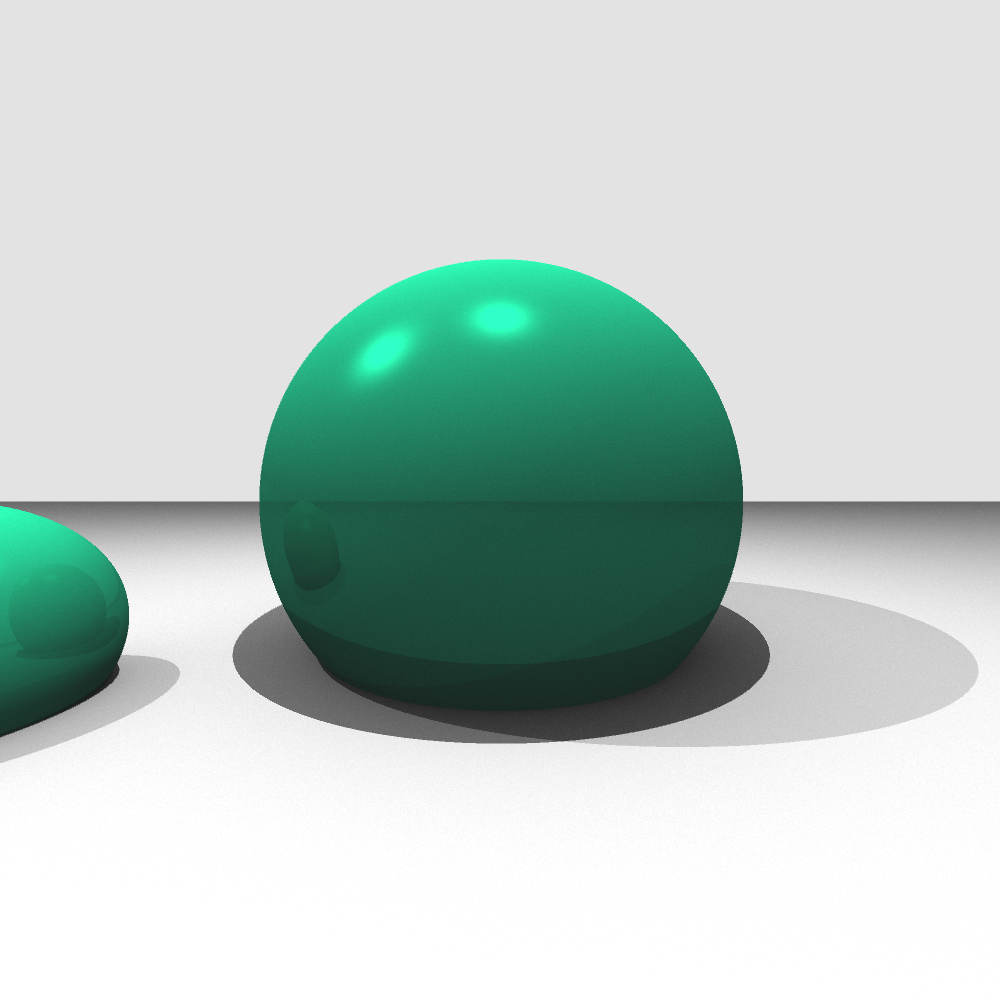
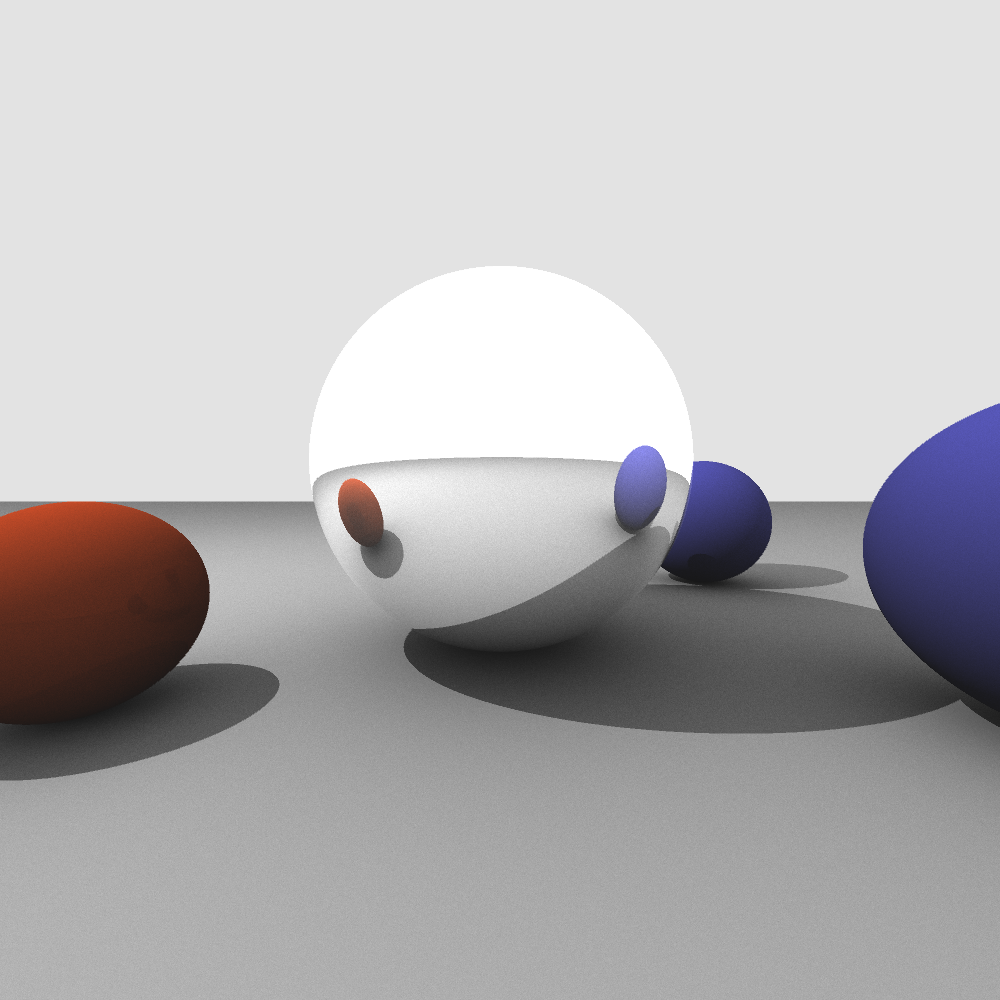
Added much nicer scene

diff --git a/main.c b/main.c
@@ -20,22 +20,29 @@ int main()
 	// Currently havin issues with white background
 	// color_set(&s.back, 255, 255, 255);
 	color_set(&s.back, 0.8, 0.8, 0.8);
-	color_set(&s.env_color, 0.1, 0.1, 0.1);
+	color_set(&s.env_color, 0.13, 0.13, 0.13);
 	s.env_samples = 256;
 
 	material_t m;
-	vector_set(&m.color, 1, 1, 1);
-	m.defuse = 0.0;
+	vector_set(&m.color, 0.4, 0.4, 1);
+	m.defuse = 1;
 	m.specular = 0.0;
 	m.shine = 80;
-	m.reflective = 0.5;
+	m.reflective = 0.0;
+
+	material_t m3;
+	vector_set(&m3.color, 1, 0.3, 0.1);
+	m3.defuse = 0.95;
+	m3.specular = 0.0;
+	m3.shine = 80;
+	m3.reflective = 0.05;
 
 	material_t m2;
-	vector_set(&m2.color, 0.1, 1, 0.7);
-	m2.defuse = 0.9;
-	m2.specular = 1;
-	m2.shine = 60;
-	m2.reflective = 0.1;
+	vector_set(&m2.color, 1, 1, 1);
+	m2.defuse = 0.0;
+	m2.specular = 0.5;
+	m2.shine = 80;
+	m2.reflective = 1;
 
 	material_t mpl;
 	//vector_set(&mpl.color, 0, 0.396, 0.7019);
@@ -45,20 +52,22 @@ int main()
 	mpl.shine = 50;
 	mpl.reflective = 0.0;
 
-	vector_set(&s.view.position, 0, 14, 5);
-	vector_set(&s.view.target, 0, 0, 5);
+	vector_set(&s.view.position, 0, 16, 6);
+	vector_set(&s.view.target, 0, 0, 6);
 	s.view.width = TESTW;
 	s.view.height = TESTH;
 
 	viewpoint_init(&s.view);
 	
 	// Setup plane
-	add_sphere(&s, vector_set(NULL, 0, 4, 5), 5, &m2);
-	add_sphere(&s, vector_set(NULL, 8, 8, 3), 2, &m2);
+	add_sphere(&s, vector_set(NULL, 0, 4, 7), 5, &m2);
+	add_sphere(&s, vector_set(NULL, 8, 8, 4), 2, &m3);
+	add_sphere(&s, vector_set(NULL, -10, 9, 5), 3, &m);
+	add_sphere(&s, vector_set(NULL, -10, -5, 5), 3, &m);
 	add_plane(&s, vector_set(NULL, 0, 0, 2), vector_set(NULL, 0, 0, 1), &mpl);
 	//add_plane(&s, vector_set(NULL, 0, -20, 0), vector_set(NULL, 0, 1, 0), &mpl);
-	add_light(&s, vector_set(NULL, 20, 10, 30), color_set(NULL, 0.2, 0.2, 0.2), color_set(NULL, 0.5, 0.5, 0.5));
-	add_light(&s, vector_set(NULL, 0, 10, 20), color_set(NULL, 0.5, 0.5, 0.5), color_set(NULL, 0.5, 0.5, 0.5));
+	add_light(&s, vector_set(NULL, 20, 10, 30), color_set(NULL, 0.3, 0.3, 0.3), color_set(NULL, 0.5, 0.5, 0.5));
+	//add_light(&s, vector_set(NULL, 0, 10, 20), color_set(NULL, 0.5, 0.5, 0.5), color_set(NULL, 0.5, 0.5, 0.5));
 
 	pgm_write_header(stdout, TESTW, TESTH);
 
